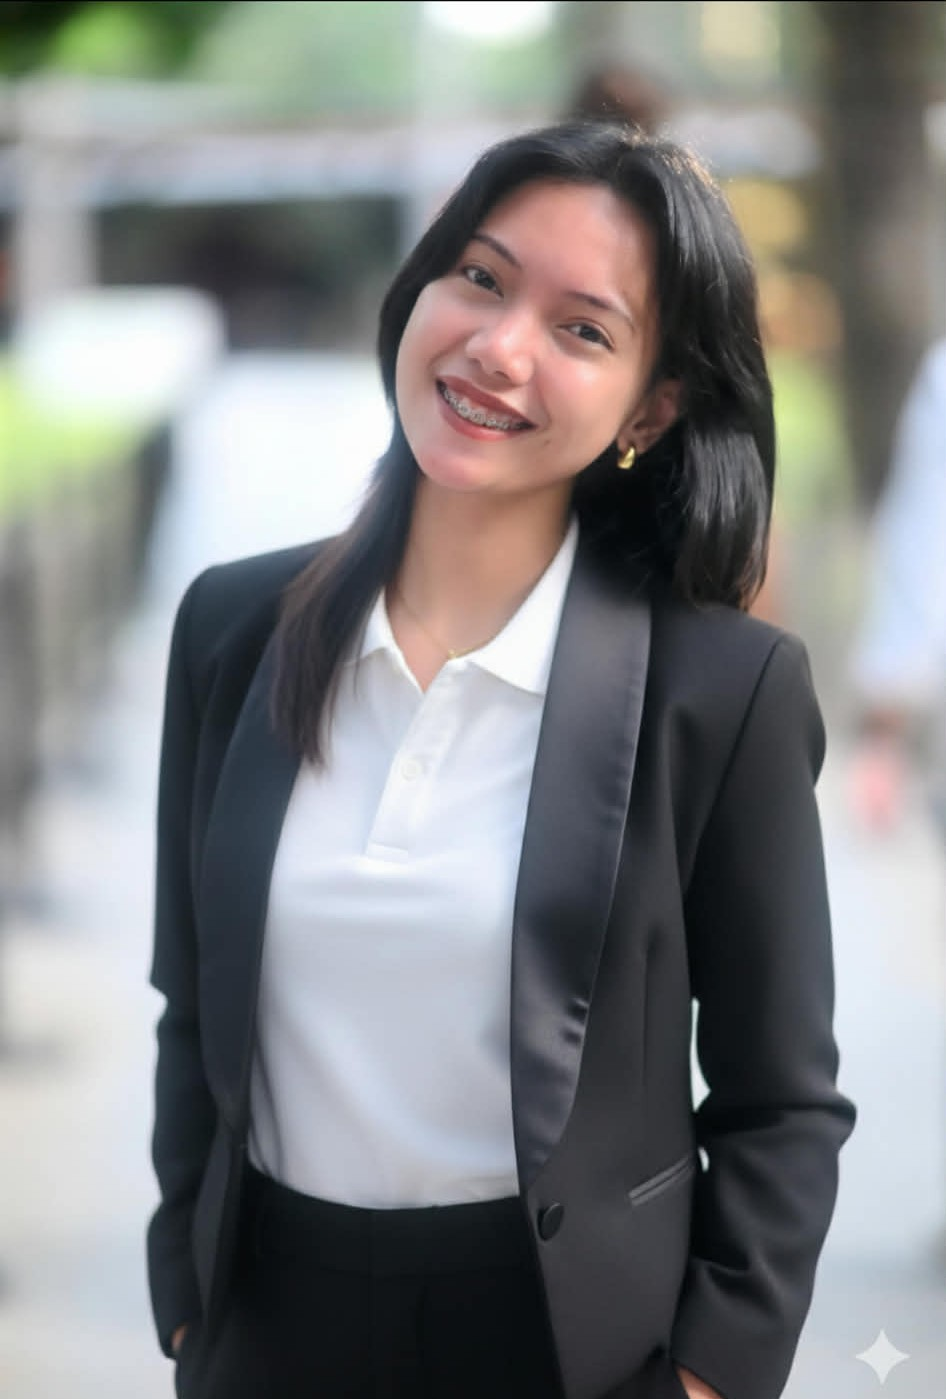
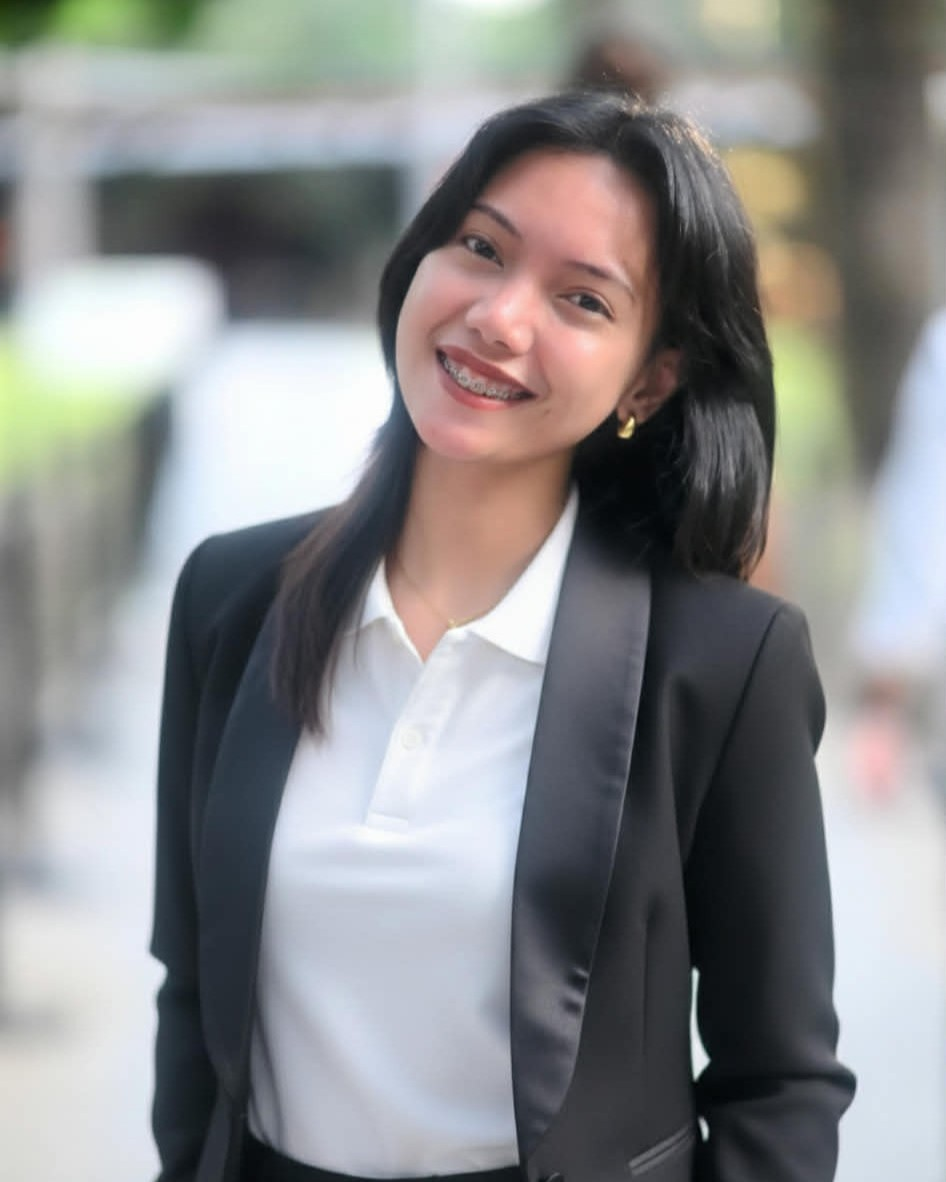
update

diff --git a/index.html b/index.html
@@ -62,10 +62,10 @@
         <div class="max-w-7xl mx-auto px-6 py-4 flex justify-between items-center">
             <div class="text-xl font-bold tracking-tighter">PORTFOLIO.</div>
             <ul class="hidden md:flex space-x-8 font-medium">
-                <li><a href="#about" class="hover:text-blue-600 transition">About</a></li>
-                <li><a href="#ux-ui" class="hover:text-blue-600 transition">UX/UI Work</a></li>
-                <li><a href="#graphics" class="hover:text-blue-600 transition">Graphic Design</a></li>
-                <li><a href="#contact" class="hover:text-blue-600 transition">Contact</a></li>
+                <li><a href="#about" class="hover:text-pink-600 transition">About</a></li>
+                <li><a href="#ux-ui" class="hover:text-pink-600 transition">UX/UI Work</a></li>
+                <li><a href="#graphics" class="hover:text-pink-600 transition">Graphic Design</a></li>
+                <li><a href="#contact" class="hover:text-pink-600 transition">Contact</a></li>
             </ul>
         </div>
     </nav>
@@ -138,14 +138,13 @@
             </div>
 
             <div class="order-1 lg:order-2 flex justify-center lg:justify-end">
-                <div class="relative w-72 h-72 md:w-96 md:h-96">
-                    <div class="absolute -inset-4 bg-pink-500/10 rounded-full blur-3xl"></div>
-                    <div class="absolute top-0 -right-4 w-24 h-24 bg-teal-500/20 rounded-full blur-2xl"></div>
-                    
-                    <div class="relative w-full h-full rounded-[2.5rem] border border-white/10 overflow-hidden shadow-2xl bg-slate-800">
+                <div class="relative w-82 h-96 md:w-90 md:h-[500px]">        
+                    <div class="relative w-full h-full rounded-[3rem] border border-white/20 overflow-hidden shadow-2xl bg-slate-800 group">            
                         <img src="Picture - Getalado, Princess Joy.jpg" 
-                             alt="Princess Joy Getalado" 
-                             class="w-full h-full object-cover grayscale hover:grayscale-0 transition-all duration-700">
+                            alt="Princess Joy Getalado" 
+                            class="w-full h-full object-cover object-center grayscale-[20%] hover:grayscale-0 transition-all duration-700 scale-105 group-hover:scale-100">
+                        
+                        <div class="absolute inset-4 border border-white/10 rounded-[2rem] z-20 pointer-events-none"></div>
                     </div>
                 </div>
             </div>
